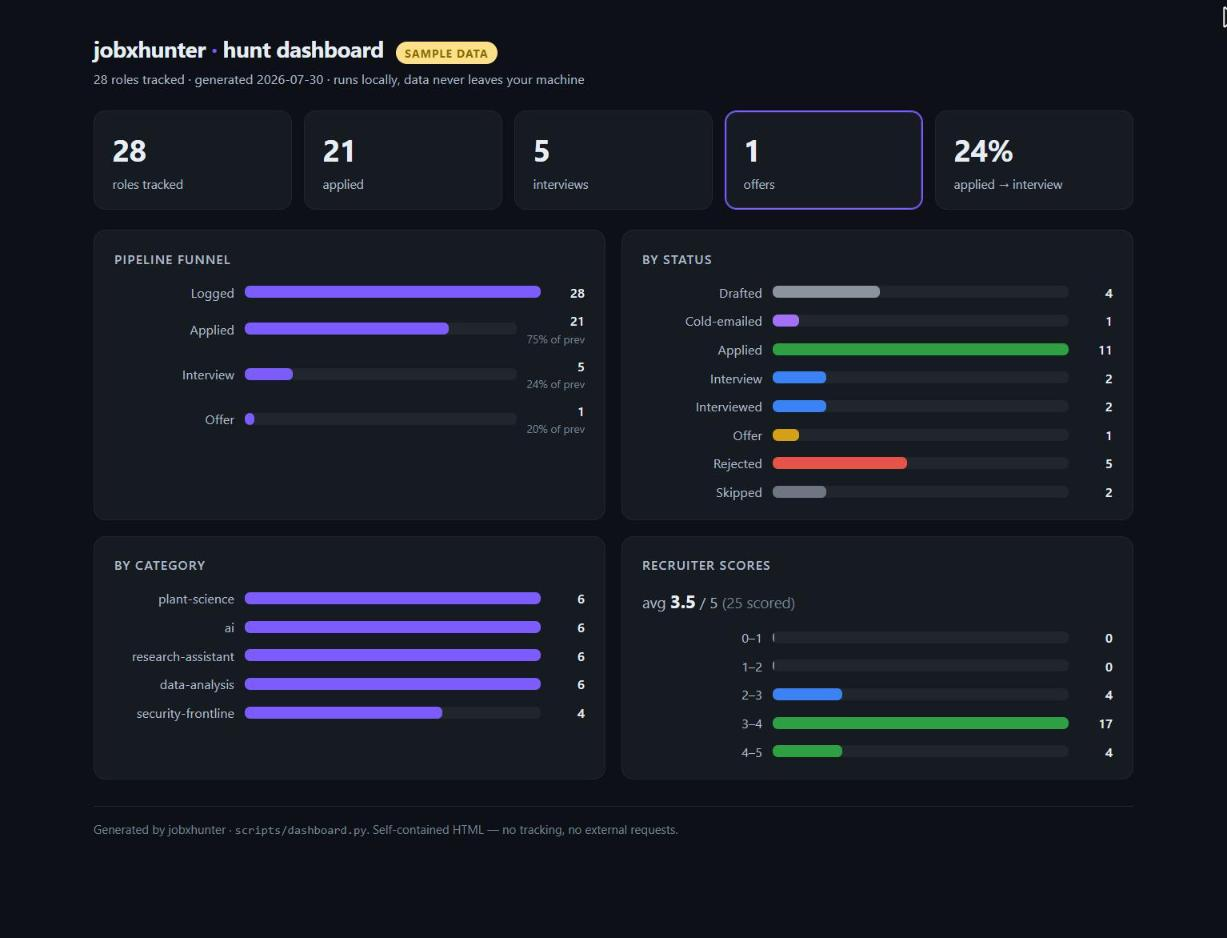
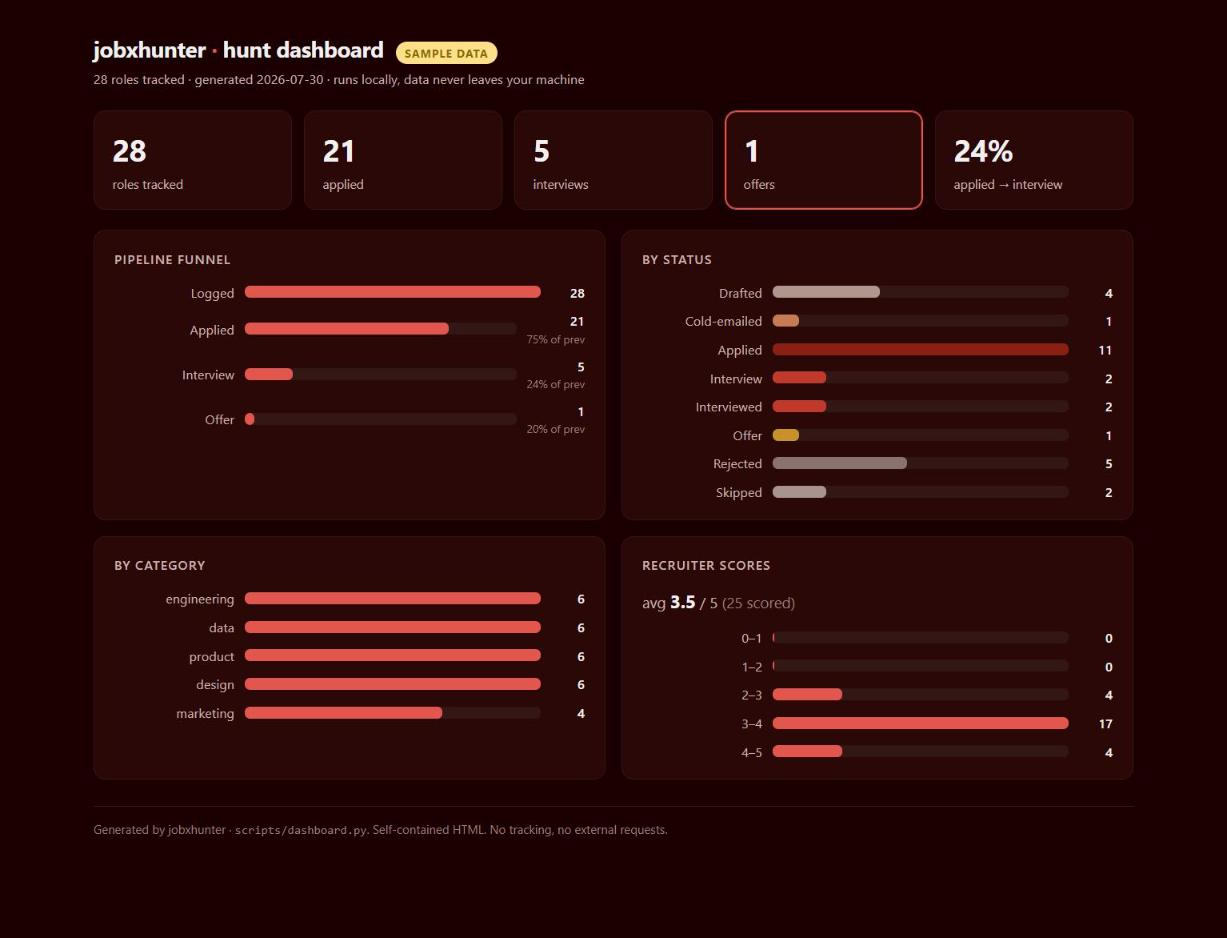
feat: rebrand dashboard to devil-red + genericize demo data
Match the landing palette across the repo, and stop the sample data from
mirroring a real profile (it is demo data, not a disclosure).

- dashboard.py: devil-red palette (light #fff5f2/#590000, dark
  #1a0000/#e2564e), theme-adaptive brand bars, warm status colours;
  em dashes removed from output and docstring.
- sample-tracker.csv: generic fictional companies and categories
  (engineering/data/product/design/marketing, no security); every stat
  unchanged (28 roles, 21 applied, 24% rate, avg 3.5).
- dashboard-preview.jpg: re-shot in the devil-red brand with generic data.
- demo-tailor.svg: generic Backend Engineer example, neutral caption.

Landing Artifact updated to match and gained an in-page night-mode toggle.
Not pushed.

diff --git a/scripts/dashboard.py b/scripts/dashboard.py
@@ -1,8 +1,8 @@
 #!/usr/bin/env python3
-"""Application dashboard — turn a tracker into one self-contained HTML page.
+"""Application dashboard: turn a tracker into one self-contained HTML page.
 
 Reads the tracker CSV mirror (dependency-free: stdlib only, no openpyxl needed)
-and writes a single HTML file with inline CSS — it opens offline, embeds no
+and writes a single HTML file with inline CSS. It opens offline, embeds no
 external assets, and phones home to nothing. Your real tracker lives in your
 private, gitignored workspace, so nothing here ever leaves your machine.
 
@@ -39,13 +39,16 @@ _OFFER = {"Offer"}
 # Status display order (pipeline order) + an accessible colour per state.
 STATUS_ORDER = ["Drafted", "Cold-emailed", "Replied", "Applied", "Interview",
                 "Interviewed", "Offer", "Rejected", "Skipped", "Not applied"]
+# Warm, devil-red-family status palette (works on both the light nude and the
+# near-black grounds; every bar is also labelled, so identity is never colour-alone).
 STATUS_COLOR = {
-    "Drafted": "#8b949e", "Cold-emailed": "#a371f7", "Replied": "#38bdf8",
-    "Applied": "#2ea043", "Interview": "#3b82f6", "Interviewed": "#3b82f6",
-    "Offer": "#d4a017", "Rejected": "#e5534b", "Skipped": "#6e7681",
-    "Not applied": "#6e7681",
+    "Drafted": "#b0968e", "Cold-emailed": "#c77b52", "Replied": "#cc9a5a",
+    "Applied": "#8a1f14", "Interview": "#c0392b", "Interviewed": "#c0392b",
+    "Offer": "#c8912a", "Rejected": "#8a736e", "Skipped": "#a8948e",
+    "Not applied": "#a8948e",
 }
-BRAND = "#7c5cff"
+# Theme-adaptive brand red: resolves to --brand (devil red on light, brightened on dark).
+BRAND = "var(--brand)"
 
 
 def _read_rows(path):
@@ -159,19 +162,17 @@ def _scores(d):
         buckets[min(int(s), 4)] += 1
     labels = ["0–1", "1–2", "2–3", "3–4", "4–5"]
     maxv = max(buckets) or 1
-    bars = "".join(_bar(labels[i], buckets[i], maxv,
-                        "#2ea043" if i >= 3 else "#3b82f6" if i == 2 else "#8b949e")
-                   for i in range(5))
+    bars = "".join(_bar(labels[i], buckets[i], maxv, "var(--brand)") for i in range(5))
     return (f'<div class="avg">avg <strong>{avg:.1f}</strong> / 5 '
             f'<span class="sub">({len(scores)} scored)</span></div>'
             f'<div class="bars">{bars}</div>')
 
 
 CSS = """
-:root{--bg:#f6f7f9;--card:#ffffff;--ink:#1c2128;--ink2:#57606a;--muted:#8b949e;
---line:#e5e8eb;--track:#eef0f2;--brand:#7c5cff}
-@media (prefers-color-scheme:dark){:root{--bg:#0d1117;--card:#161b22;--ink:#e6edf3;
---ink2:#adbac7;--muted:#768390;--line:#21262d;--track:#21262d}}
+:root{--bg:#fff5f2;--card:#ffffff;--ink:#240f0d;--ink2:#6b4a45;--muted:#9c7169;
+--line:#f0dcd5;--track:#f7e4dd;--brand:#590000}
+@media (prefers-color-scheme:dark){:root{--bg:#1a0000;--card:#2a0808;--ink:#f1efef;
+--ink2:#c9b2af;--muted:#9a7d7a;--line:#3a1512;--track:#331717;--brand:#e2564e}}
 *{box-sizing:border-box}
 body{margin:0;background:var(--bg);color:var(--ink);
 font:15px/1.5 -apple-system,BlinkMacSystemFont,"Segoe UI",Roboto,Helvetica,Arial,sans-serif;
@@ -225,12 +226,12 @@ def render(d, title, generated, sample):
         '<div class="card"><h2>Recruiter scores</h2>' + _scores(d) + "</div>",
         "</div>",
         '<footer>Generated by jobxhunter · <code>scripts/dashboard.py</code>. '
-        'Self-contained HTML — no tracking, no external requests.</footer>',
+        'Self-contained HTML. No tracking, no external requests.</footer>',
         "</div>",
     ]
     return ("<!doctype html><html lang=\"en\"><head><meta charset=\"utf-8\">"
             "<meta name=\"viewport\" content=\"width=device-width,initial-scale=1\">"
-            f"<title>{html.escape(title)} — hunt dashboard</title><style>{CSS}</style></head>"
+            f"<title>{html.escape(title)} hunt dashboard</title><style>{CSS}</style></head>"
             f"<body>{''.join(parts)}</body></html>")
 
 
